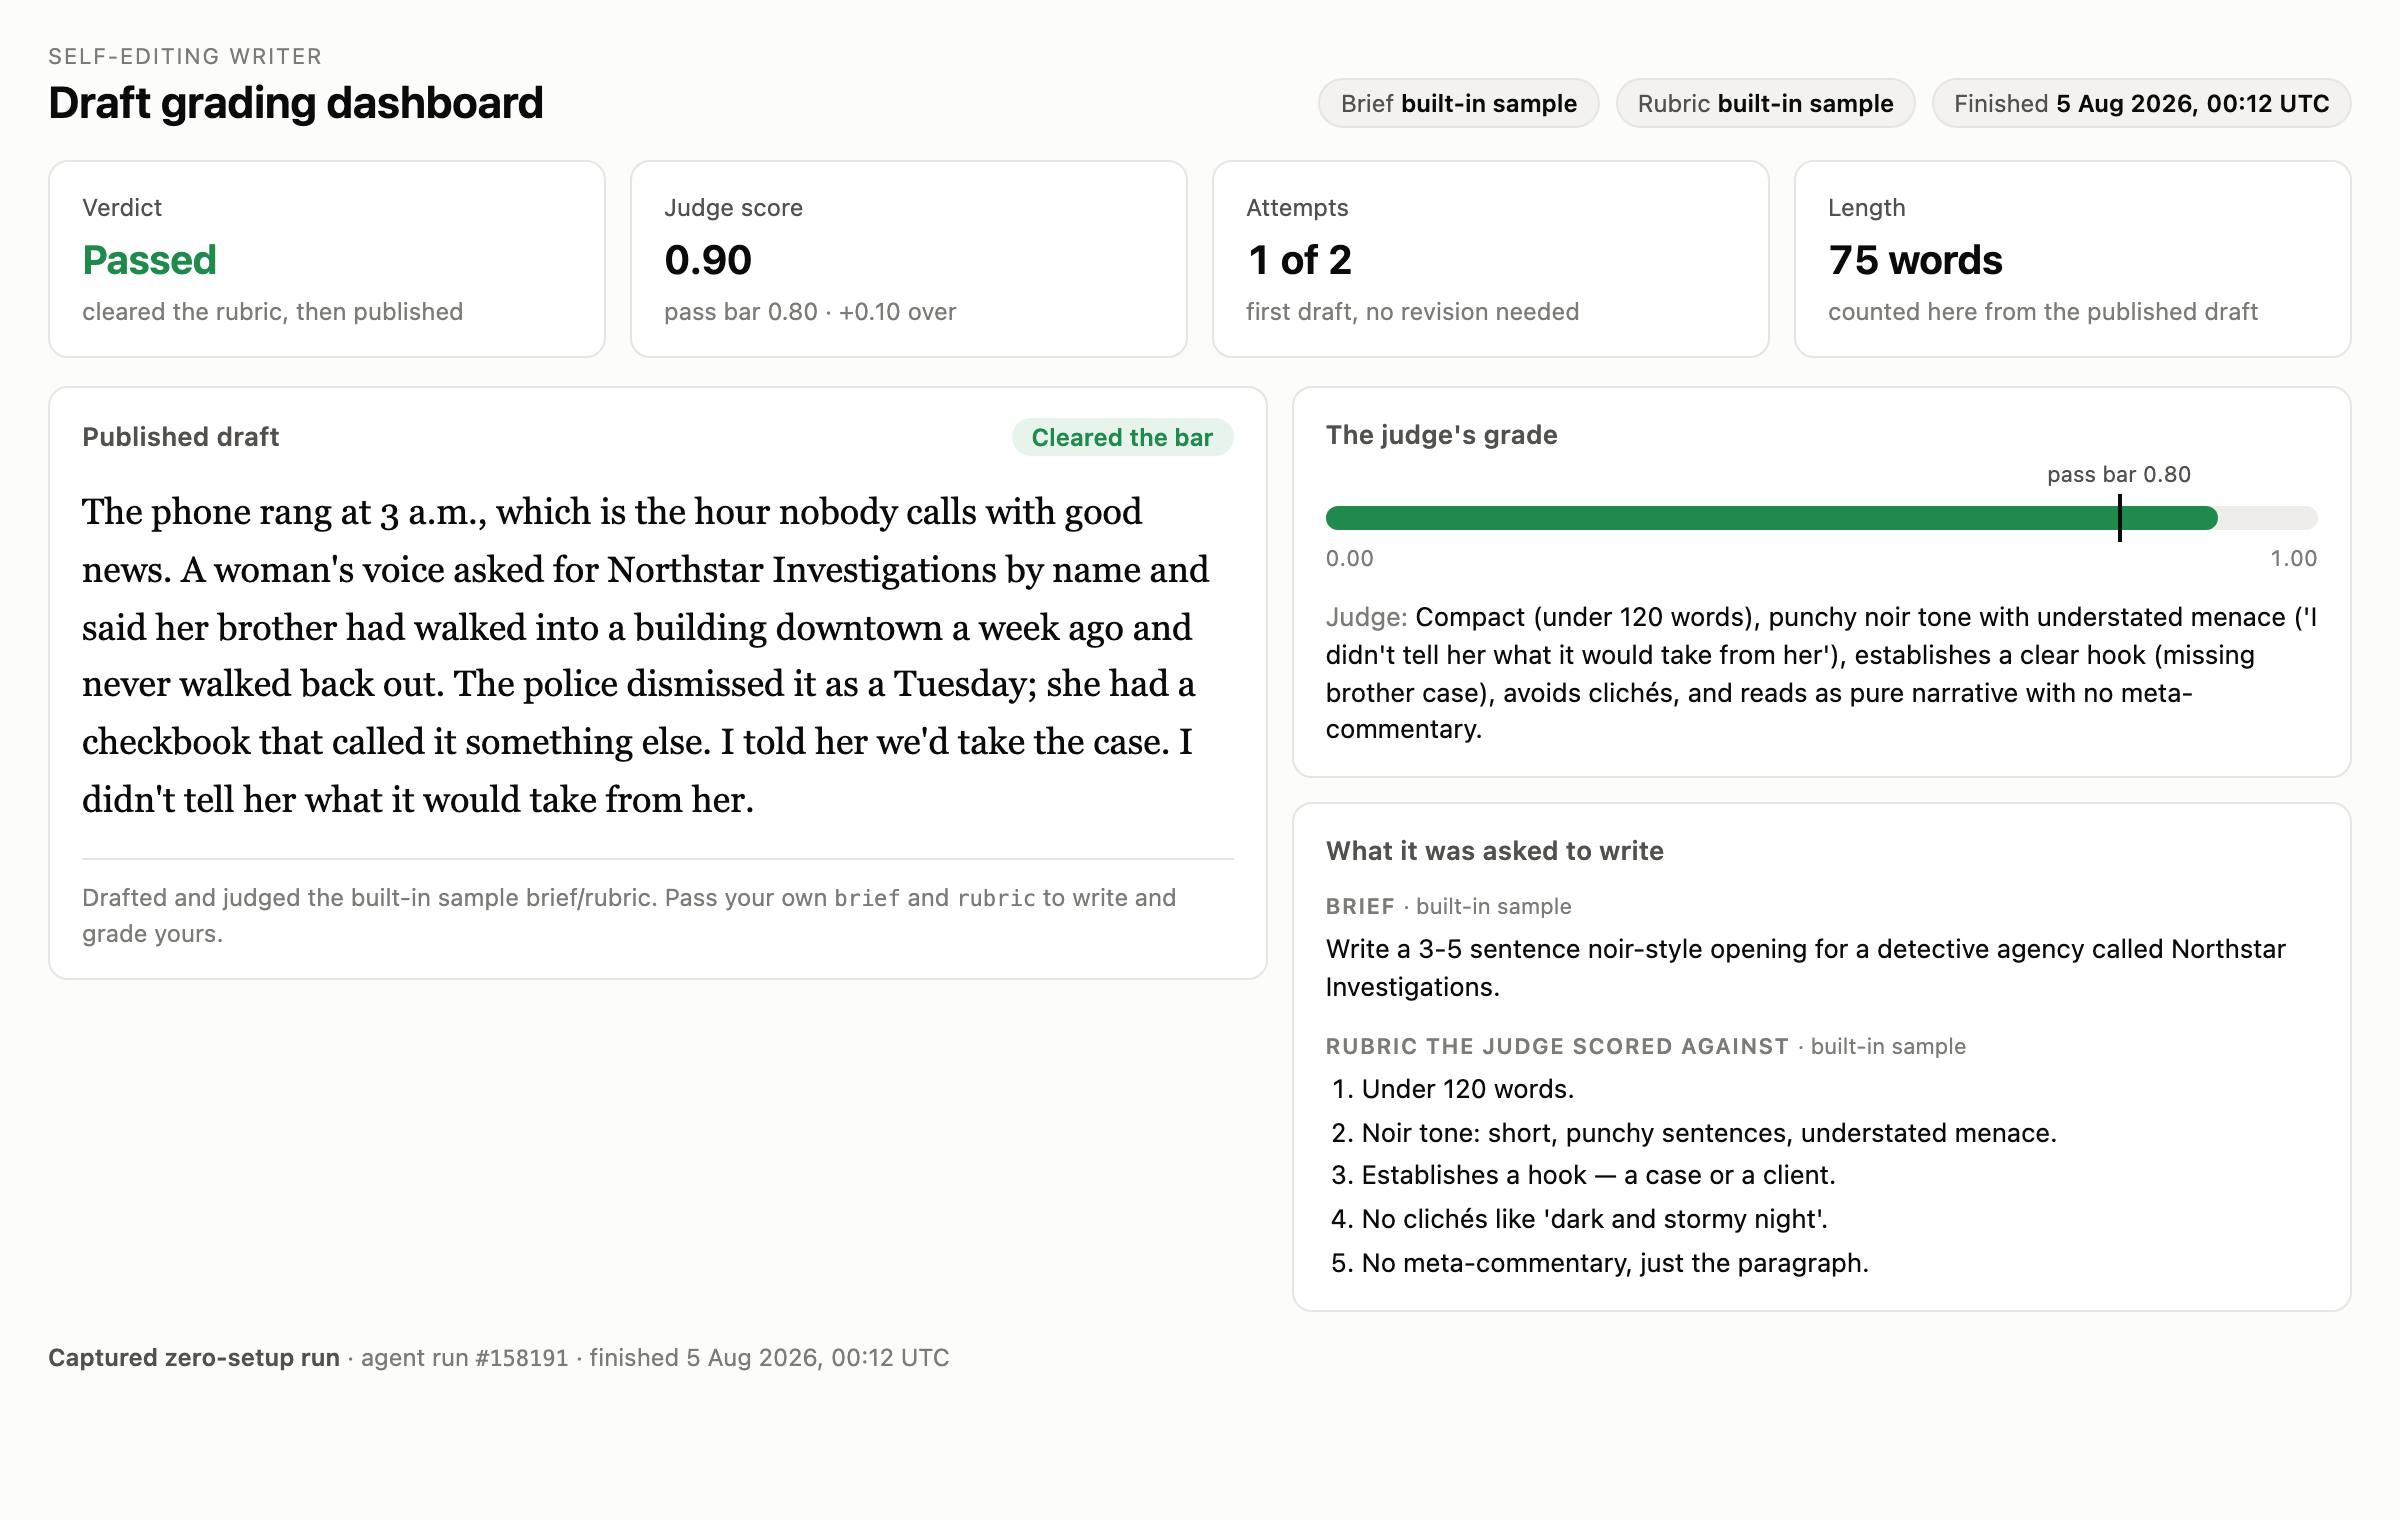
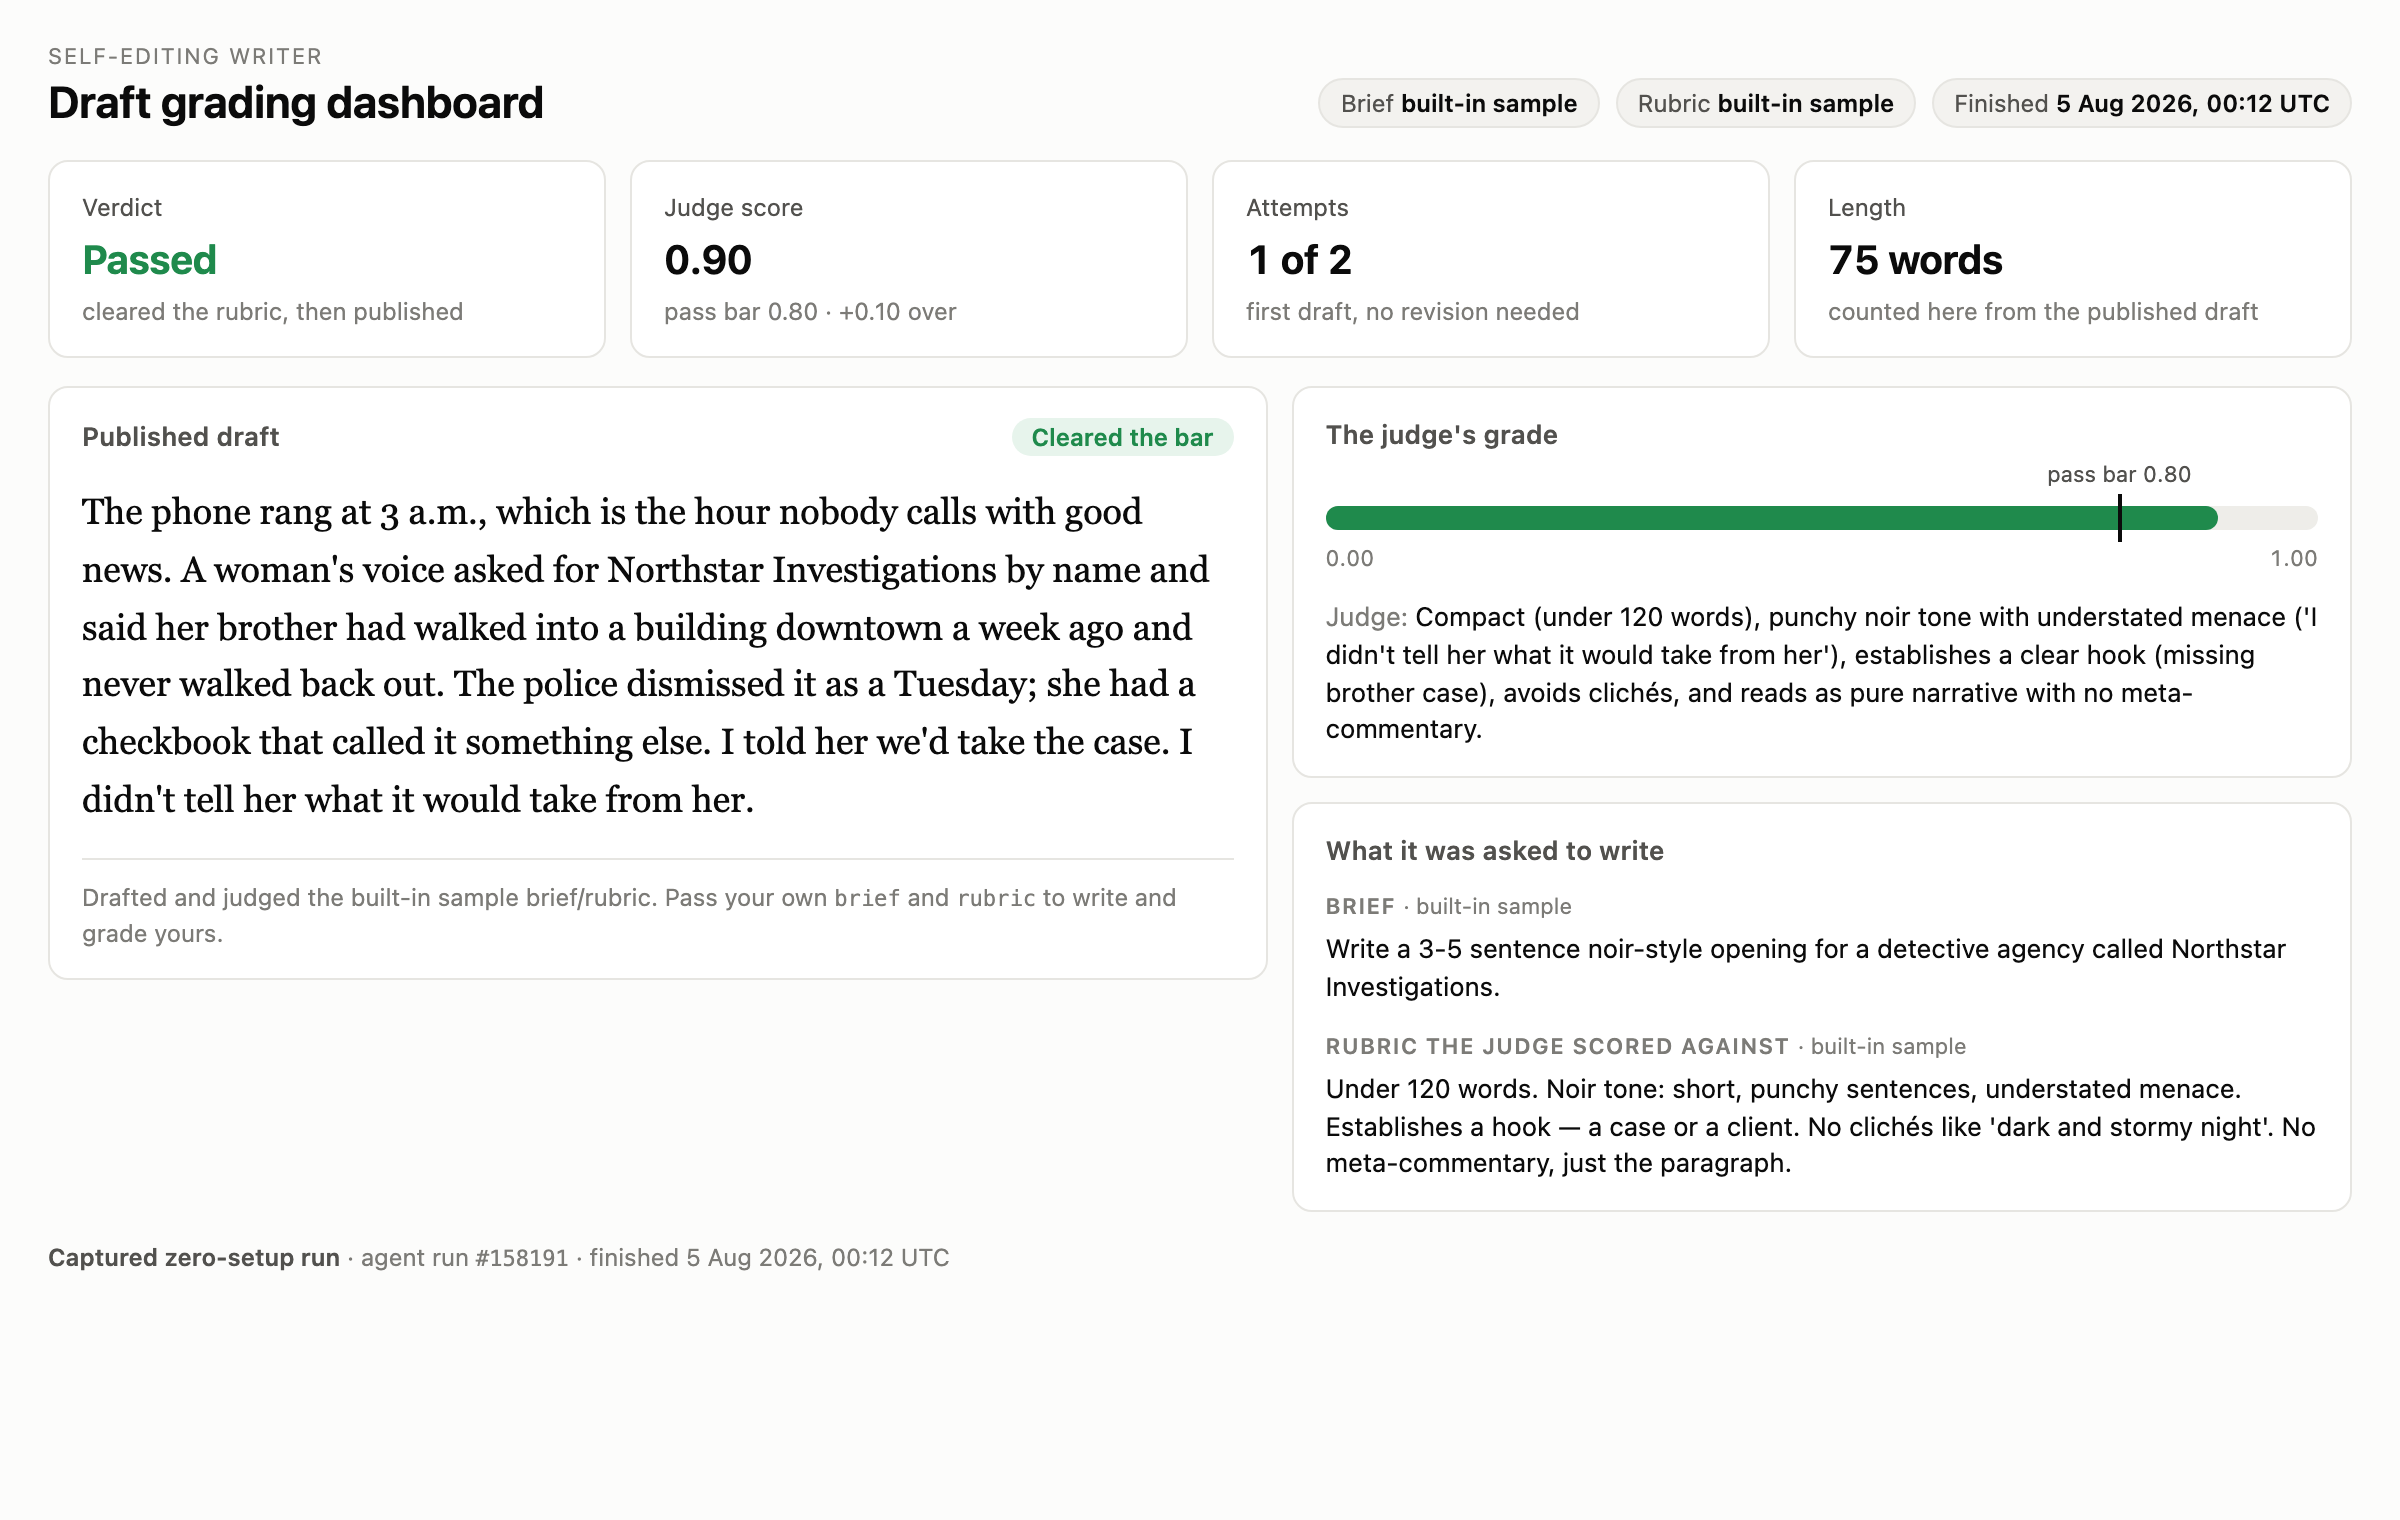
fix(examples): show the eval-gate brief and rubric exactly as graded [SAP-3314]
Review found two ways the dashboard could misstate what the judge graded.
A whitespace-only brief or rubric passes the agent's schema (defaults apply
only when a field is absent), but the page replaced it with the built-in
sample. And splitting the rubric on sentence punctuation turned
abbreviations like "Dr. Smith" into extra criteria the user never wrote.
The page now mirrors the schema's defaulting and shows the rubric verbatim.

Refs SAP-3314

Claude-Session: https://claude.ai/code/session_016szNYmKXyXyydw3FLV4EYp

diff --git a/examples/eval-gate/app/index.html b/examples/eval-gate/app/index.html
@@ -268,13 +268,11 @@
       .brief {
         margin: 0 0 12px;
         font-size: 13px;
+        white-space: pre-wrap;
+        overflow-wrap: anywhere;
       }
-      .criteria {
-        margin: 0;
-        padding-left: 18px;
-        font-size: 13px;
-        display: grid;
-        gap: 3px;
+      .brief:last-child {
+        margin-bottom: 0;
       }
       .tag {
         font-size: 11px;
@@ -388,23 +386,6 @@
         }</article>`;
       }
 
-      /**
-       * A rubric written as sentences ("Under 120 words. Noir tone: ...") is
-       * shown one criterion per line; one written any other way is shown as
-       * it came. These are what the judge scored against, not per-criterion
-       * results: the judge returns one score for the whole draft.
-       */
-      function renderRubric(rubric) {
-        const parts = String(rubric)
-          .split(/(?<=[.!?])\s+(?=[A-Z])/)
-          .map((p) => p.trim())
-          .filter(Boolean);
-        if (parts.length < 2) return `<p class="brief">${esc(rubric)}</p>`;
-        return `<ol class="criteria">${parts
-          .map((p) => `<li>${esc(p)}</li>`)
-          .join("")}</ol>`;
-      }
-
       function render({ source, task, output }) {
         const o = output ?? {};
         const src = source ?? {};
@@ -486,7 +467,7 @@
           <h3>Brief ${t.sampleBrief ? `<span class="tag">· built-in sample</span>` : ""}</h3>
           <p class="brief">${esc(t.brief ?? "—")}</p>
           <h3>Rubric the judge scored against ${t.sampleRubric ? `<span class="tag">· built-in sample</span>` : ""}</h3>
-          ${renderRubric(t.rubric ?? "—")}`;
+          <p class="brief">${esc(t.rubric ?? "—")}</p>`;
 
         const where =
           src.kind === "live"
